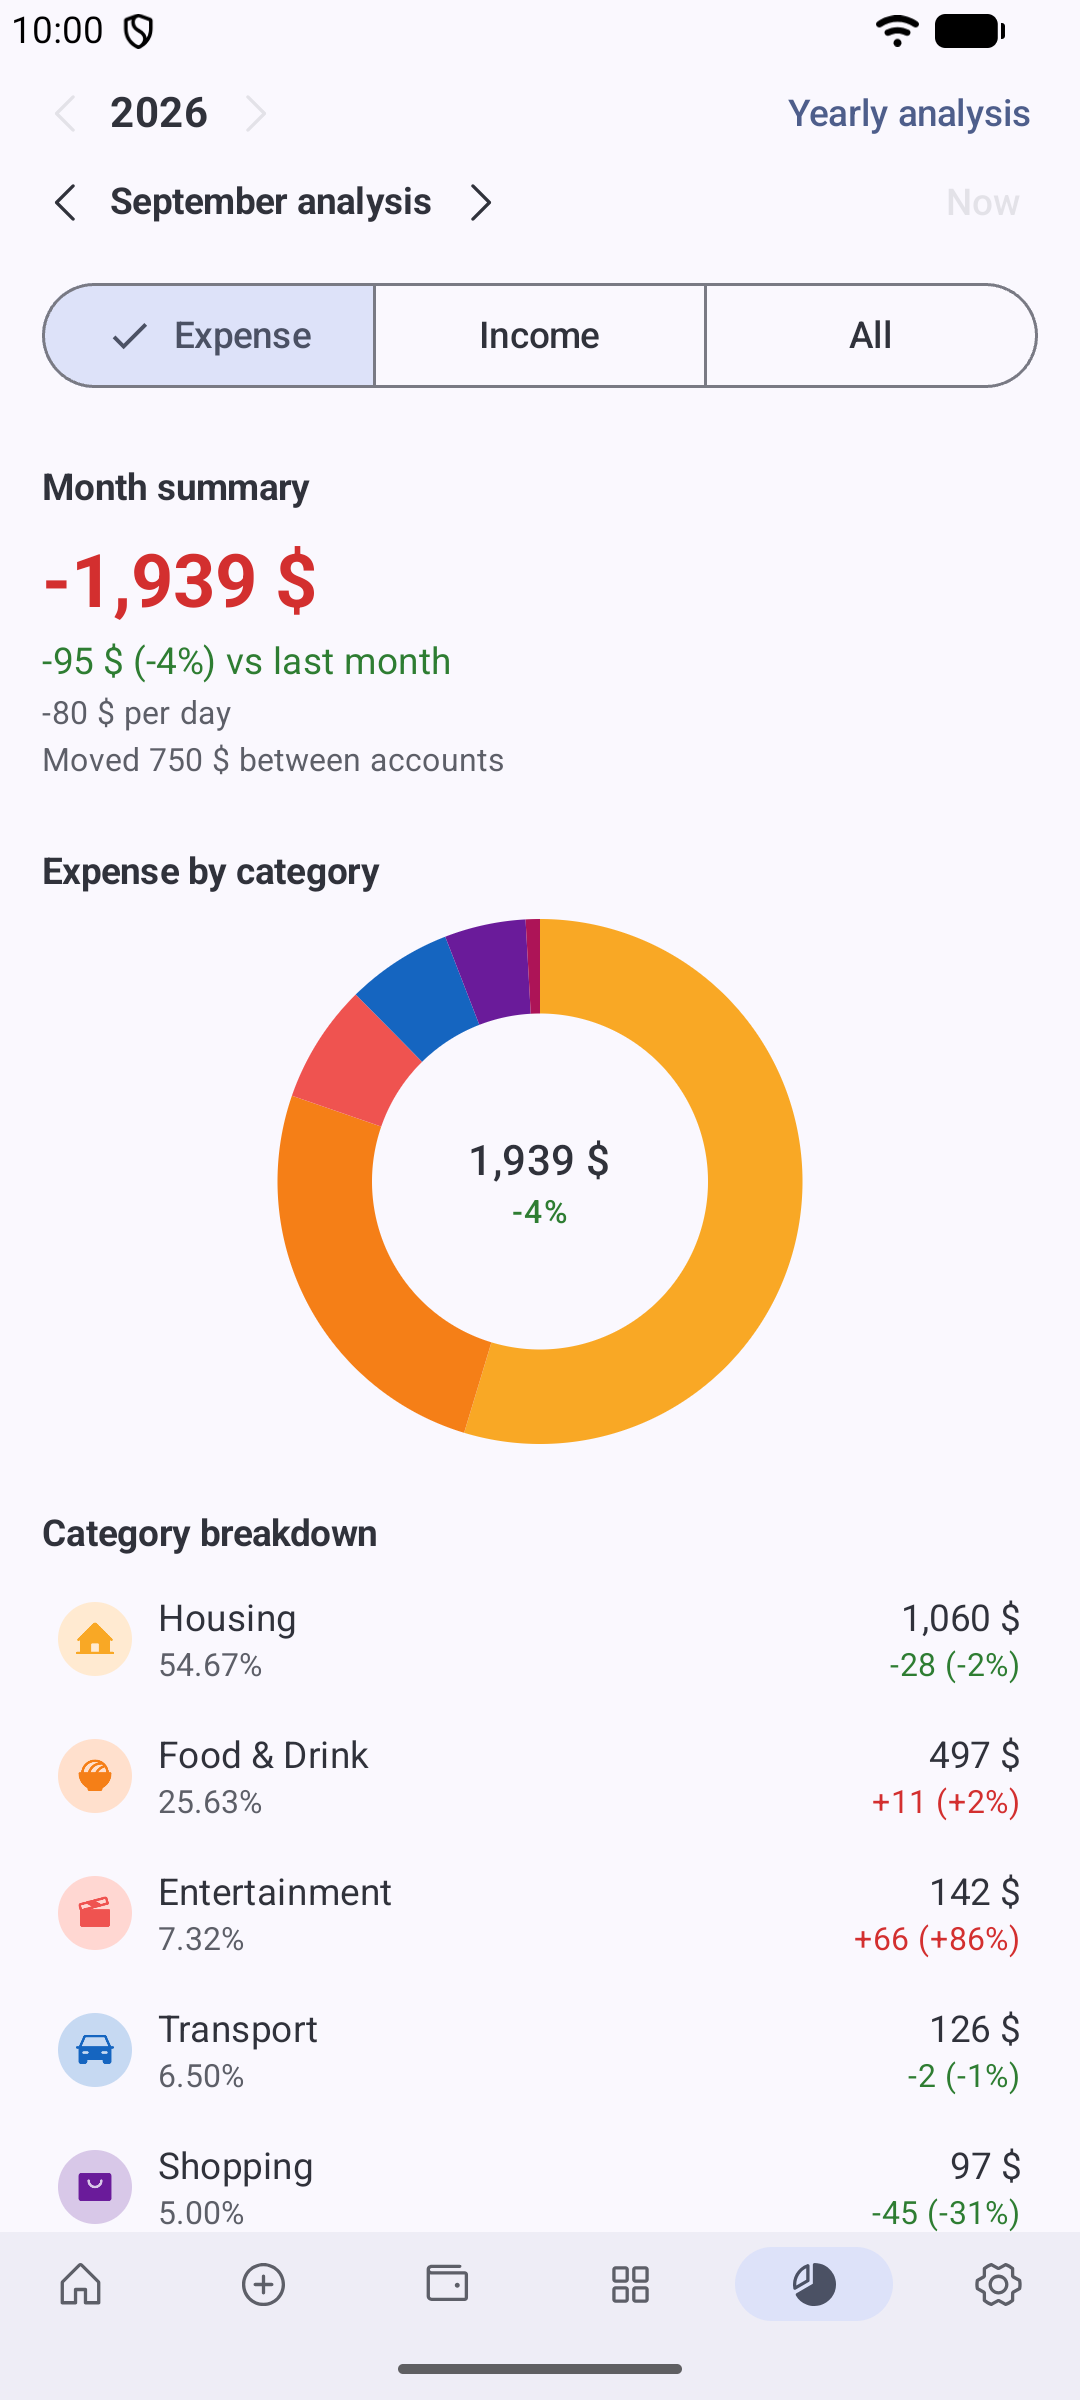
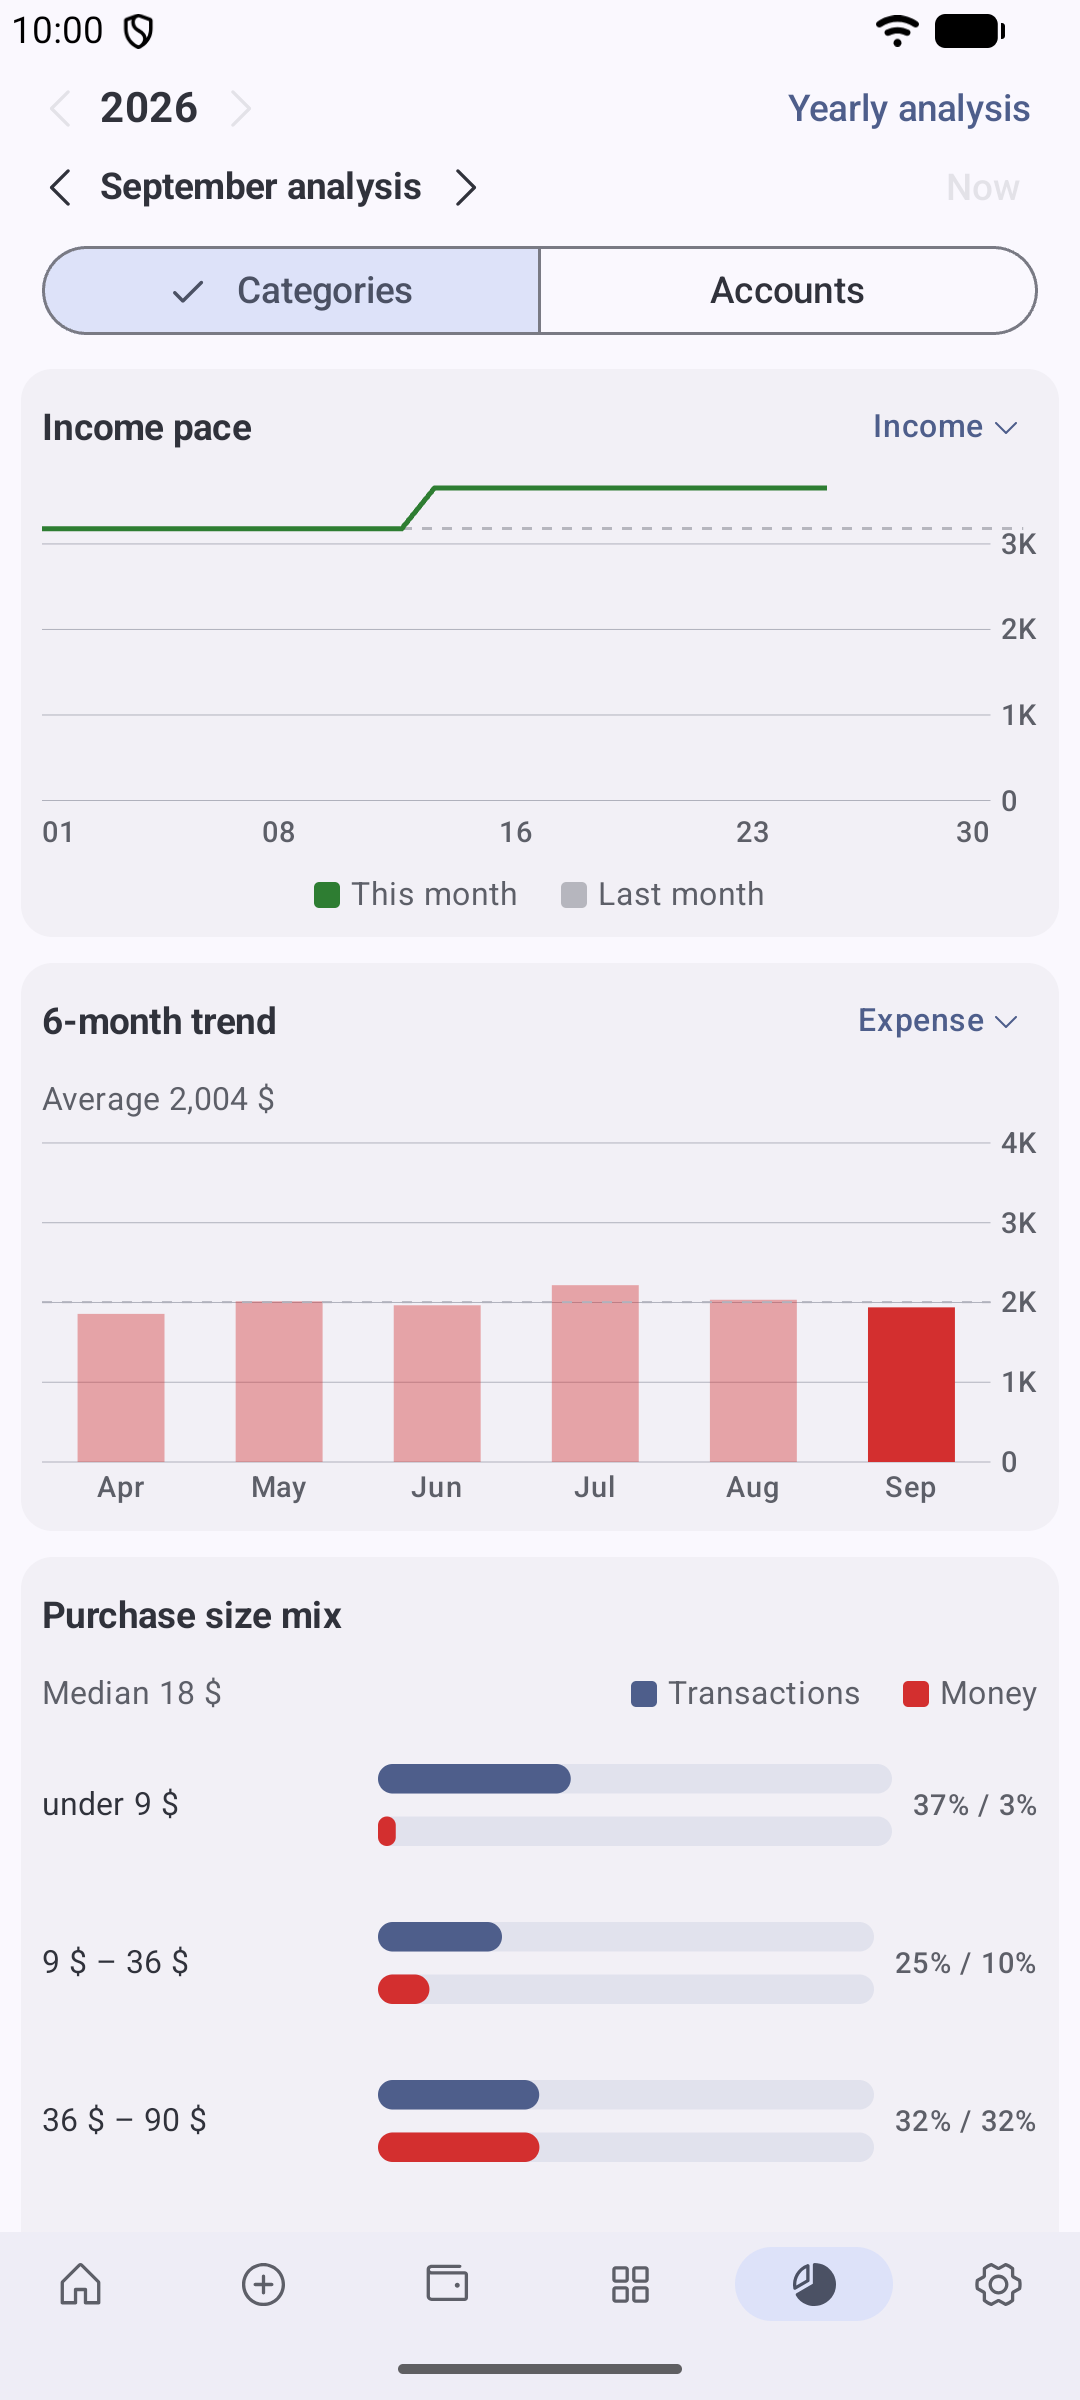
[Chore] update README and screenshot for the new Analysis screen
- Analysis section: Categories/Accounts tabs, chart cards you drag to reorder
  or drop on the right-edge strip to remove (with Undo), the grouped Add chart
  sheet, per-chart Expense/Income/All defaulting to All, and the donut with its
  breakdown as one chart.
- docs/analysis.png retaken on the emulator (demo-mode status bar like the
  other screenshots): the tabs, card tint and per-chart chips.

diff --git a/README.md b/README.md
@@ -85,13 +85,15 @@ Open the app and you are already on the "add expense" screen. Log a purchase in 
 <img src="docs/analysis.png" align="right" width="240" alt="Analysis" />
 
 - **One page per month and one per year**, swiped through or stepped with the year and month pickers in the top bar. Swipe right off December to reach that year's summary.
-- **Categories / Accounts**, two tabs under the pickers. Each is a list of charts you arrange: long-press a chart to drag it, drop it on the red strip at the right edge to remove it (with undo), and add charts back from the + button at the bottom. Month and year pages keep separate lists, saved in the database so they travel with backups.
-- **Expense / Income / All** is picked per chart, from the chip in its title. All draws both kinds together rather than a single net figure.
+- **Categories / Accounts:** two tabs under the pickers. Categories covers where your spending and income went; Accounts covers each account.
+- **Your own layout:** every page is a list of chart cards you arrange. Long-press a card to lift it, drag it to a new place and let go. To remove a card, drag it to the right edge: a red strip opens as your finger gets close, and dropping on it removes the card (with **Undo**).
+- **Add chart:** the button at the bottom of the list opens a sheet of the charts that page offers, grouped and shown with icons. Month and year pages keep separate layouts, saved in the database so they travel with backups.
+- **Expense / Income / All** is picked per chart, from the chip in its title. New charts start on All, which draws both kinds together rather than a single net figure.
 - **Month summary:** the total signed as money flows (spending −, income +, net in All mode), the change against last month in amount and percent, the average per day, and money moved between accounts.
-- **Where the money went:** a donut and a category breakdown, a 6-month trend, and the biggest movers against last month.
-- **When it went:** a cumulative spending pace line against last month, a daily heatmap that opens that day's history, and the average spend per weekday.
+- **Where the money went:** a donut with its category breakdown in one chart (tap a slice to highlight its row), a 6-month trend, and the biggest movers against last month.
+- **When it went:** a cumulative pace line against last month, a daily heatmap that opens that day's history, and the average spend per weekday.
 - **What it went on:** the mix of purchase sizes around the month's median, and the five largest movements.
-- **Accounts tab:** spending and income per account (donut and breakdown), each account's net flow, month-end balance lines, transfers summed per account pair, and the largest movements of one chosen account.
+- **Accounts tab:** spending and income per account (donut and breakdown in one chart), each account's net flow, month-end balance lines, transfers summed per account pair, and the largest movements of one account you pick.
 - **Yearly analysis:** year summary, month-by-month bars, category totals for the year, and this year against last year. A part-finished year is compared against the same months a year earlier, never against a full twelve.
 
 <br clear="right" />
